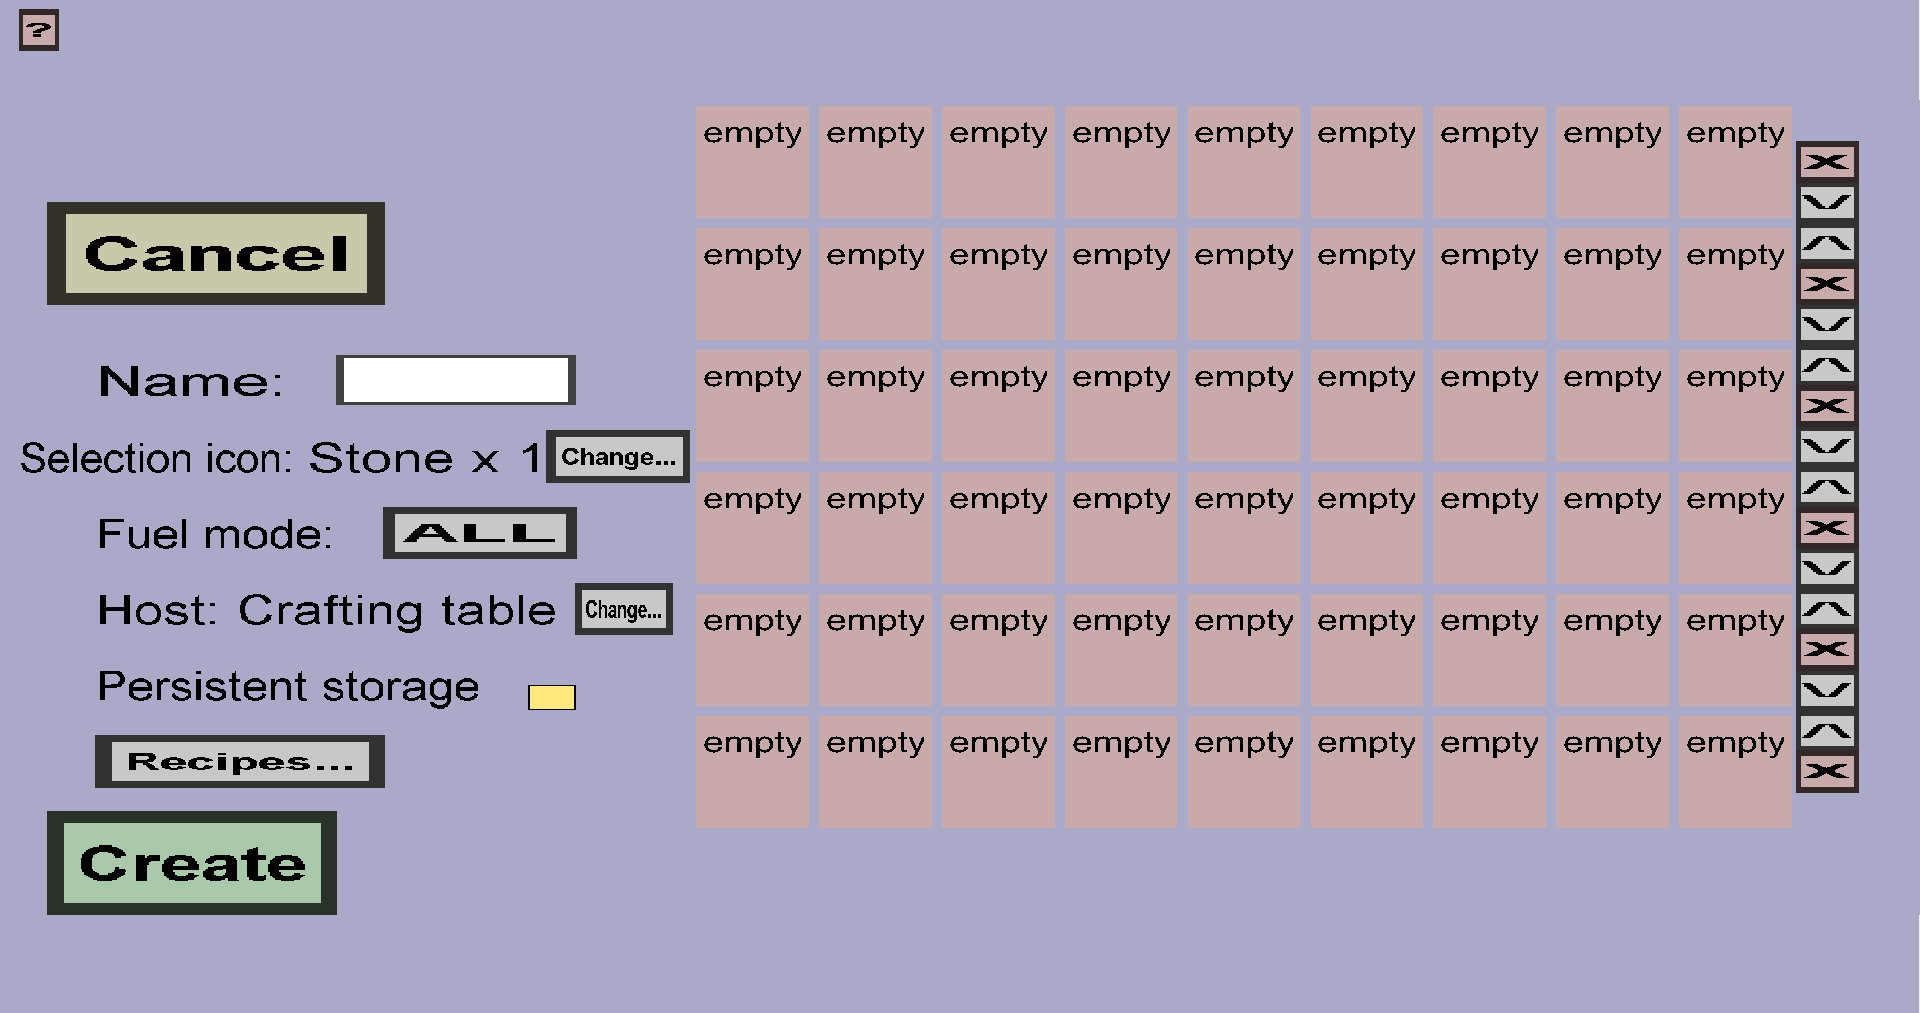
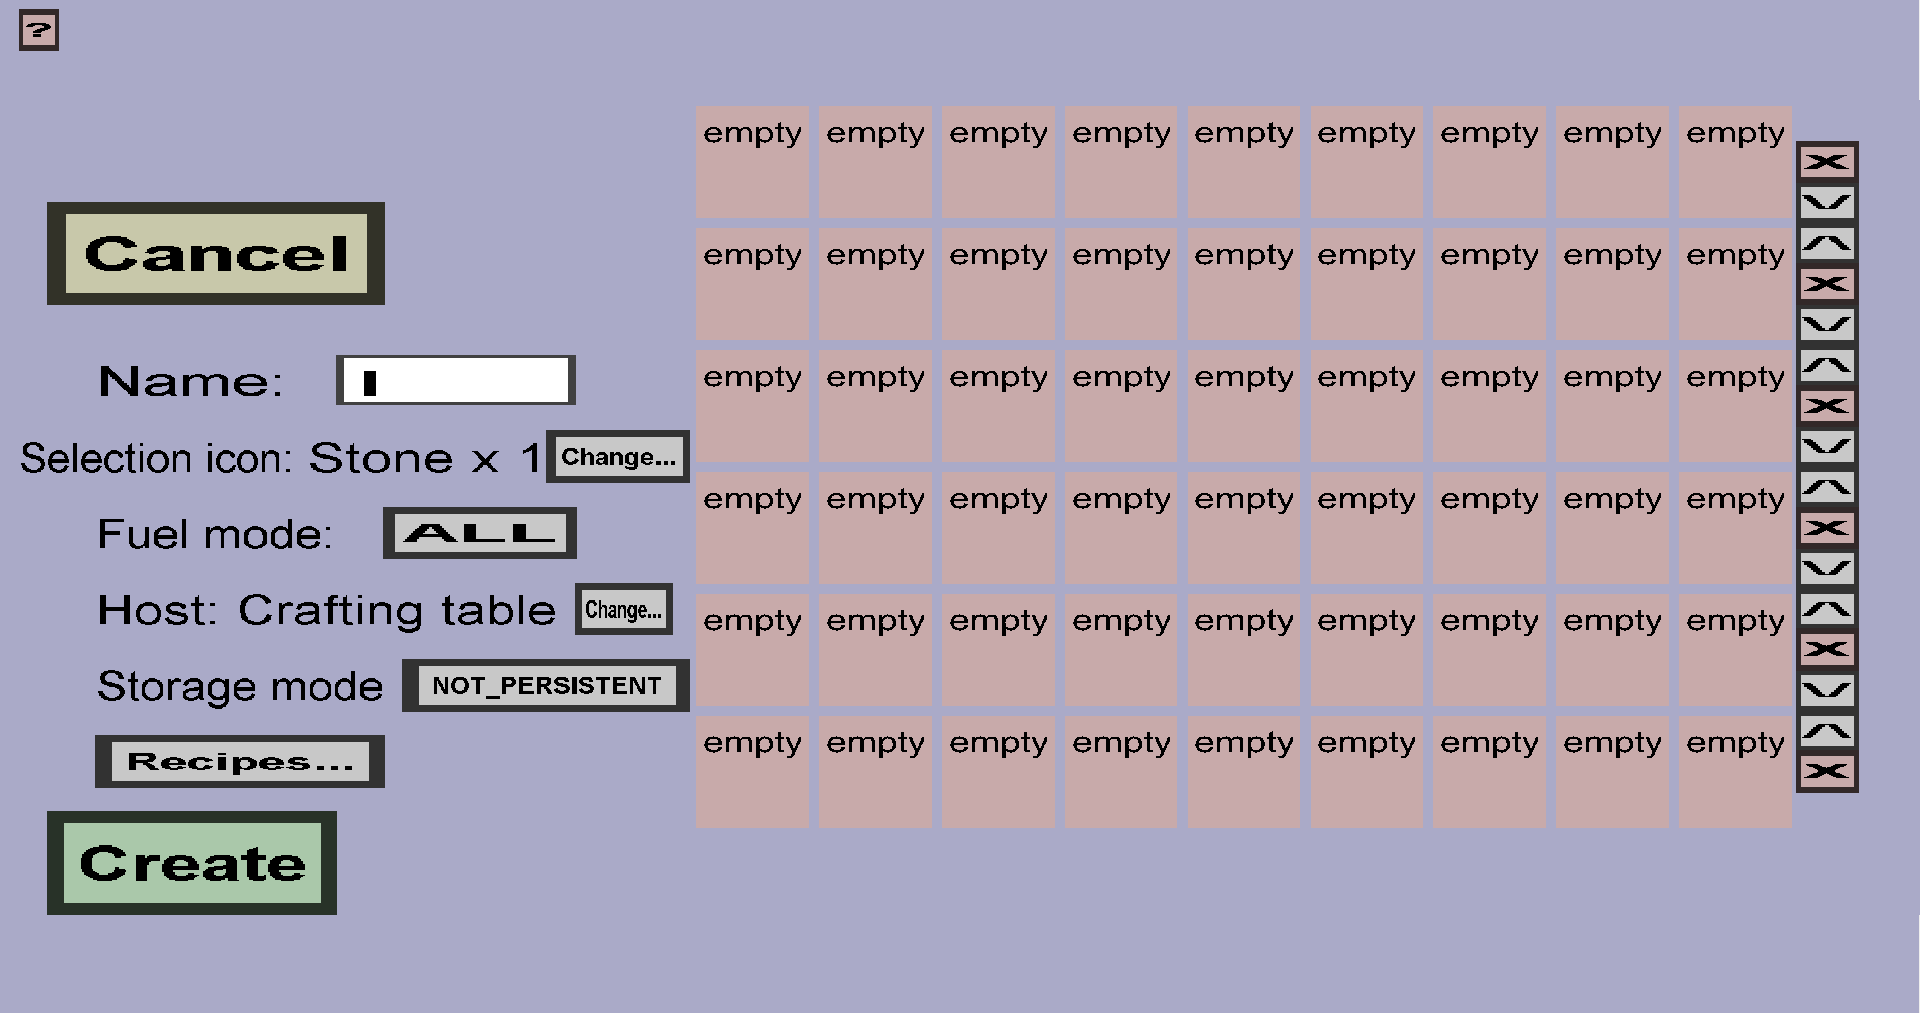
Document container string hosts

Changed region(s): [[0.0625, 0.6426, 0.375, 0.7038], [0.1875, 0.3672, 0.2188, 0.3978]]

diff --git a/custom items/editor documentation/edit menu/containers/string host.html b/custom items/editor documentation/edit menu/containers/string host.html
@@ -1,0 +1,120 @@
+<!DOCTYPE html>
+<html>
+    <head>
+        <meta charset="UTF-8" />
+        <title>Container string hosts</title>
+    </head>
+    <body>
+        <h1>Container string hosts</h1>
+        <h2>Container hosts</h2>
+        <p>
+            Custom containers always have a <i>host</i>. The player normally opens the custom container by interacting with
+            the host. Furthermore, the contents of the container are usually stored at the host. The host is usually a block 
+            or a pocket container. In the case of a block, the player can open it by right-clicking the block or by
+            left-clicking it while sneaking. In the case of a pocket container, the player can open it by right-clicking
+            with the pocket container in their hand.
+        </p>
+        <h2>String hosts</h2>
+        <p>
+            A special type of container hosts supported by this plug-in are <i>string hosts</i>. When using a string host,
+            the container is associated with a string (basically a small piece of text in programming/scripting jargon)
+            rather than with a block or pocket container. String hosts can only be used by the <b>/kci container</b> command,
+            Skripts, and Denizen scripts. In combination with scripting, string hosts can be very powerful. However, they are
+            not very useful without scripts.
+        </p>
+        <h3>Opening string hosts</h3>
+        There are 3 ways to open a string host:
+        <ul>
+            <li>By using a command: /kci container open <b>container_name</b> <b>string_host</b> <i>player_name</i></li>
+            <li>By using Skript: <b>player</b> opens kci "<b>container_name</b>" at "<b>string_host</b>"</li>
+            <li>By using Denizen: kci_container <b>player</b> opens <b>container_name</b> at <b>string_host</b></li>
+        </ul>
+        In case you use the command, you need to have the right permissions. If you are opening the container
+        <b>yourself</b>, you need at least 1 of the following permissions:
+        <ul>
+            <li>customitems.containercommand.openself.*.*</li>
+            <li>customitems.containercommand.openself.<b>container_name</b>.*</li>
+            <li>customitems.containercommand.openself.*.<b>string_host</b></li>
+            <li>customitems.containercommand.openself.<b>container_name</b>.<b>string_host</b></li>
+        </ul>
+        If you use the command to let someone else open a custom container, you need to have the
+        customitems.containercommand.openother permission.
+        <h3>Choosing the container storage mode</h3>
+        If you wish to use string hosts for a custom container, it is usually best to choose one of the following
+        storage modes:
+        <ul>
+            <li>
+                <b>NOT_PERSISTENT</b> if you want the container to drop all items when the player closes it. In this
+                case, it doesn't really matter which string host you choose since no items can be stored.
+            </li>
+            <li>
+                <b>PER_LOCATION</b> if you want the container to store its items at the string host and you want all
+                players to share the same container inventory.
+            </li>
+            <li>
+                <b>PER_LOCATION_PER_PLAYER</b> if you want the container to store its items at the string host and you
+                want each player to have their own container inventory.
+            </li>
+        </ul>
+        Using the other storage modes beats the purpose of string hosts because the container inventory will be shared
+        between <b>distinct</b> string hosts.
+        <h3>Choosing the string host</h3>
+        <p>
+            If you have chosen the <b>PER_LOCATION</b> or <b>PER_LOCATION_PER_PLAYER</b> storage mode, each distinct
+            string host will have its own container inventory. If you have chosen another storage mode, all string hosts
+            will share the same inventory (and thus it doesn't matter which string host you pick, so you can skip this
+            section). Some examples of string hosts are given below:
+        </p>
+        <h4>Using 1 string host per container</h4>
+        <p>
+            If you use only 1 string host per container, it doesn't matter which string you choose. The result will
+            basically be an 'ender custom container' that players can open via commands or scripts. You could use this
+            for an extra ender chest or for some kind of 'wiki'.
+        </p>
+        <h4>Using faction names as string hosts</h4>
+        <p>
+            If you have a faction server, you could use the names of the factions as the string hosts. This will result in
+            every faction having their own custom container inventory that members can access via commands or scripts. If
+            you use commands, I recommend using permissions to ensure players can only open the container inventory of their
+            own faction. You could use this as a shared faction storage or a custom container with powerful container recipes
+            with long durations (so every faction can only perform 1 powerful recipe at the same time and needs to choose
+            wisely).
+        </p>
+        <h4>Using entity UUIDs as string hosts</h5>
+        <p>
+            In Minecraft, every entity has its own UUID, which you could use as string host. This will result in having a
+            container inventory per entity. This could be used to assign custom containers to animals, NPCs, and minecarts. 
+            This could probably be useful in combination with Citizens.
+        </p>
+        <h4>More ways</h4>
+        <p>
+            This was just a small list of ideas to give you some inspiration. There are countless other string hosts you can
+            use and you can probably come up with other useful ways if you take some time to think about it.
+        </p>
+        <h3>Cleaning up</h3>
+        <p>
+            When a regular custom container is hosted by a block, and that block gets broken, the container is automatically
+            destroyed, and its items will be dropped on the ground. If you use string hosts, there is no such clean-up
+            mechanism: the container inventory will remain in memory (and on disk) until you destroy it with a command or
+            script. Depending on your usecase, this may or may not be desired. (For instance, keeping faction inventory
+            indefinitely is probably fine, but entity inventories should probably be cleaned up when the host entity dies.
+            In this case, you could use a script that destroys the containers of each entity when they die.)
+        </p>
+        <p>
+            Just like opening a container at a string host, there are 3 ways to destroy a container at a string host:
+            commands, Skripts, and Denizen scripts. Furthermore, you can choose whether you want the inventory content to
+            be dropped or destroyed. To destroy the inventory contents, use:
+        </p>
+        <ul>
+            <li>This command: /kci container destroy <b>container_name</b> <b>string_host</b></li>
+            <li>This Skript: destroy kci "<b>container_name</b>" at "<b>string_host</b>"</li>
+            <li>This Denizen script: kci_container destroy <b>container_name</b> at <b>string_host</b></li>
+        </ul>
+        If you would like to drop the inventory contents at a given location, use 1 of these instead:
+        <ul>
+            <li>This command: /kci container destroy <b>container_name</b> <b>string_host</b> <b>world_name</b> <b>x</b> <b>y</b> <b>z</b></li>
+            <li>This Skript: destroy kci "<b>container_name</b>" at "<b>string_host</b>" and drop its items at <b>drop_location</b></li>
+            <li>This Denizen script: kci_container destroy <b>container_name</b> at <b>string_host</b> and drop items at <b>drop_location</b></li>
+        </ul>
+    </body>
+</html>

diff --git a/custom items/compatibility/positive.html b/custom items/compatibility/positive.html
@@ -79,6 +79,9 @@ MobName:
             <li>place kci %string% at %block%</li>
             <li>put [a] kci %string% in %slot%</li>
             <li>put %integer% kci %string% in %slot%</li>
+            <li>%player% opens kci %string% at %string%</li>
+            <li>destroy kci %string% at %string%</li>
+            <li>destroy kci %string% at %string% and drop its items at %location%</li>
         </ul>
         <h4>Expressions</h4>
         <ul>
@@ -86,7 +89,7 @@ MobName:
             <li>kci name of %itemstack%</li>
         </ul>
         <h4>Examples</h4>
-        <textarea readonly cols="150" rows="22">
+        <textarea readonly cols="150" rows="30">
 on rightclick:
     if event-block is dirt:
         if event-item is a kci item:
@@ -107,6 +110,13 @@ on leftclick:
         broadcast "You left-clicked a custom block. Take this as a reward!"
         give kci "cube1" to event-player
 
+on rightclick on a pig:
+    if event-item is stick:
+        event-player opens kci "per_location" at uuid of clicked entity
+    if event-item is cactus:
+        destroy kci "per_location" at uuid of clicked entity
+    if event-item is sand:
+        destroy kci "per_location" at uuid of clicked entity and drop its items at event-location
         </textarea>
         <h3><a href="https://github.com/DenizenScript/Denizen">Denizen</a></h3>
         Custom items and custom blocks can be used in Denizen scripts. Unfortunately, the Denizen VS Code extensions
@@ -120,35 +130,43 @@ on leftclick:
                 LocationTag.kci_block_name: returns the name of the custom block at the location, 
                 or null if there is no custom block at the location
             </li>
-            <li>&ltkci_items[custom_item_name]&gt: creates and returns a custom item (stack) from the custom item with the given name</li>
-            <li>&ltkci_items[custom_item_name*amount]&gt: creates a custom item stack of <b>amount</b> custom items with the given name</li>
+            <li>&lt;kci_items[custom_item_name]&gt;: creates and returns a custom item (stack) from the custom item with the given name</li>
+            <li>&lt;kci_items[custom_item_name*amount]&gt;: creates a custom item stack of <b>amount</b> custom items with the given name</li>
         </ul>
         <h4>Commands</h4>
         <ul>
-            <li>kci place [block_name:&ltstring&gt] (at destination:&ltlocation&gt)</li>
+            <li>kci place [block_name:&lt;string&gt;] (at destination:&lt;location&gt;)</li>
+            <li>kci_container [player_name:&lt;player&gt;] opens [container_name:&lt;string&gt;] at [host_string:&lt;string&gt;]</li>
+            <li>kci_container destroy [container_name:&lt;string&gt;] at [host_string:&lt;string&gt;] (and drop items at [drop_location:&lt;location&gt;])</li>
         </ul>
         <h4>Examples</h4>
-        <textarea readonly cols="150" rows="22">
+        <textarea readonly cols="150" rows="30">
 test_event_handler:
     type: world
     events:
         after player right clicks dirt:
-            - if &ltcontext.item.is_kci_item&gt:
-            - narrate "You right-clicked dirt with a custom item named &ltcontext.item.kci_item_name>."
+            - if &lt;context.item.is_kci_item&gt;:
+            - narrate "You right-clicked dirt with a custom item named &lt;context.item.kci_item_name>."
         after player right clicks stone:
-            - if &ltcontext.item.kci_item_name&gt == cube1:
+            - if &lt;context.item.kci_item_name&gt; == cube1:
             - narrate "You right-clicked a stone with a cube1 (this is a custom item I use for testing)."
         after player left clicks block:
-            - if &ltcontext.location.is_kci_block&gt:
+            - if &lt;context.location.is_kci_block&gt;:
             - narrate "You left-clicked a custom block. Take this as a reward!"
-            - give &ltkci_items[cube1]&gt
+            - give &lt;kci_items[cube1]&gt;
         after player right clicks block:
-            - if &ltcontext.location.kci_block_name&gt == custom_block:
+            - if &lt;context.location.kci_block_name&gt; == custom_block:
             - narrate "You right-clicked a kci custom block named 'custom_block' (I literally called the block 'custom_block')"
-            - inventory set o:&ltkci_items[cube2*2]&gt slot:5
+            - inventory set o:&lt;kci_items[cube2*2]&gt; slot:5
         after player right clicks cobblestone:
-            - kci place custom_block at &ltcontext.location&gt
+            - kci place custom_block at &lt;context.location&gt;
             - narrate "Right-clicking cobblestone replaces it with custom_block"
+        after player right clicks pig with:stick:
+            - kci_container &lt;player&gt; opens per_location at &lt;context.entity.uuid&gt;
+        after player right clicks pig with:cactus:
+            - kci_container destroy per_location at &lt;context.entity.uuid&gt;
+        after player right clicks pig with:sand:
+            - kci_container destroy per_location at &lt;context.entity.uuid&gt; and drop items at &lt;context.location&gt;
         </textarea>
         <h3><a href="https://www.spigotmc.org/resources/ultra-chests-an-interactive-reward.44360/">Ultra Chest</a></h3>
         <p>

diff --git a/custom items/editor documentation/edit menu/containers/edit.html b/custom items/editor documentation/edit menu/containers/edit.html
@@ -102,14 +102,31 @@
                 </ul>
             </li>
             <li>
-                The checkbox on the right of 'Persistent storage' determines the storage system of the container.
-                There are simply 2 storage systems: persistent and non-persistent. If this checkbox is checked,
-                the persistent system will be used. If it's not checked, the non-persistent system will be used.
-                The persistent system works like a furnace: players can insert items into a furnace and pick them
-                up later (unless another player picks it first). The non-persistent system works like a crafting 
-                table: all items in the crafting grid are dropped as soon as the player closes his inventory, and
-                it is 'private' in the sense that other players can't see what you're crafting or take your
-                items while you're crafting.
+                The <i>Storage mode</i> determines what happens to the contents of the container when the player closes
+                the container. There are 5 possible storage modes:
+                <ul>
+                    <li>
+                        <b>NOT_PERSISTENT</b>: The contents will be dropped on the floor. This is similar to a crafting table.
+                    </li>
+                    <li>
+                        <b>PER_LOCATION_PER_PLAYER</b>: The contents will be stored at the location of the container. This
+                        location is either a block, an item stack, or a <a href="string host.html">string host</a>. Players can only see
+                        and take their <b>own</b> items.
+                    </li>
+                    <li>
+                        <b>PER_LOCATION</b>: The contents will be stored at the location of the container. This location is 
+                        either a block, an item stack, or a <a href="string host.html">string host</a>. The items can be seen and taken by
+                        any player that can access the same location. This is similar to a chest and a furnace.
+                    </li>
+                    <li>
+                        <b>PER_PLAYER</b>: The contents will be stored and can be accessed by the <b>same</b> player from
+                        any <b>container of the same type</b>, regardless of the location. This is similar to an ender chest.
+                    </li>
+                    <li>
+                        <b>GLOBAL</b>: The contents will be stored and can be accessed by <b>any</b> player from any
+                        <b>container of the same type</b>, regardless of the location.
+                    </li>
+                </ul>
             </li>
             <li>
                 The 'Recipes...' button will take you to the 
